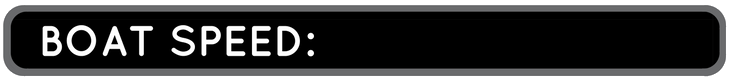
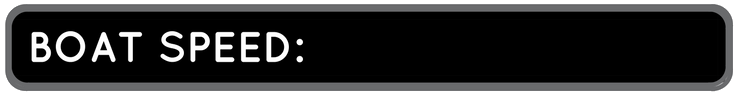
Put the boat information together in one area and updated the css to fit the style
#story[1315]

Changed region(s): [[0.0, 0.025, 0.9945, 0.95]]

diff --git a/Visualizer/src/main/resources/css/raceView.css b/Visualizer/src/main/resources/css/raceView.css
@@ -55,3 +55,8 @@
     -fx-border-radius: 5px;
 
     }
+
+.label{
+    -fx-font-family: 'Quicksand', sans-serif, bold;
+
+}
